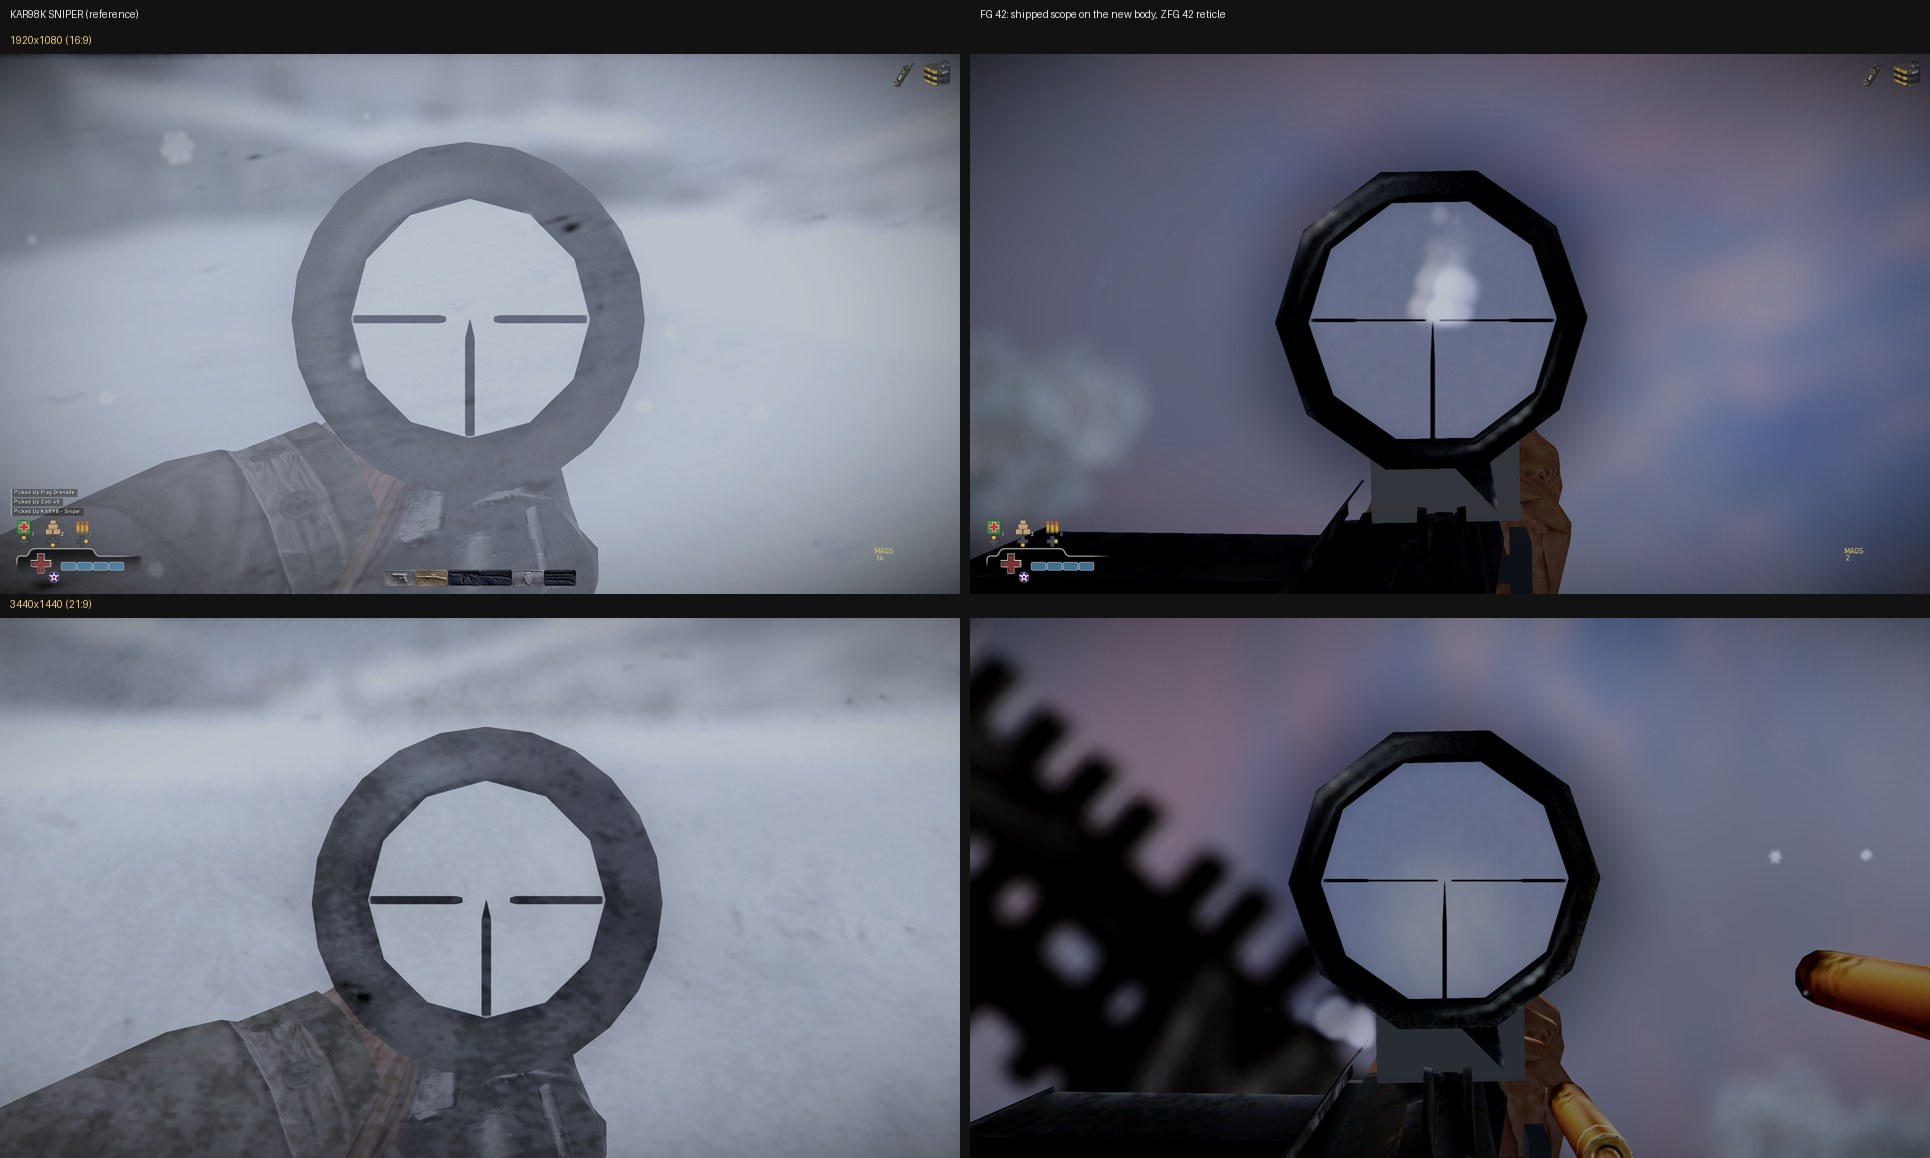
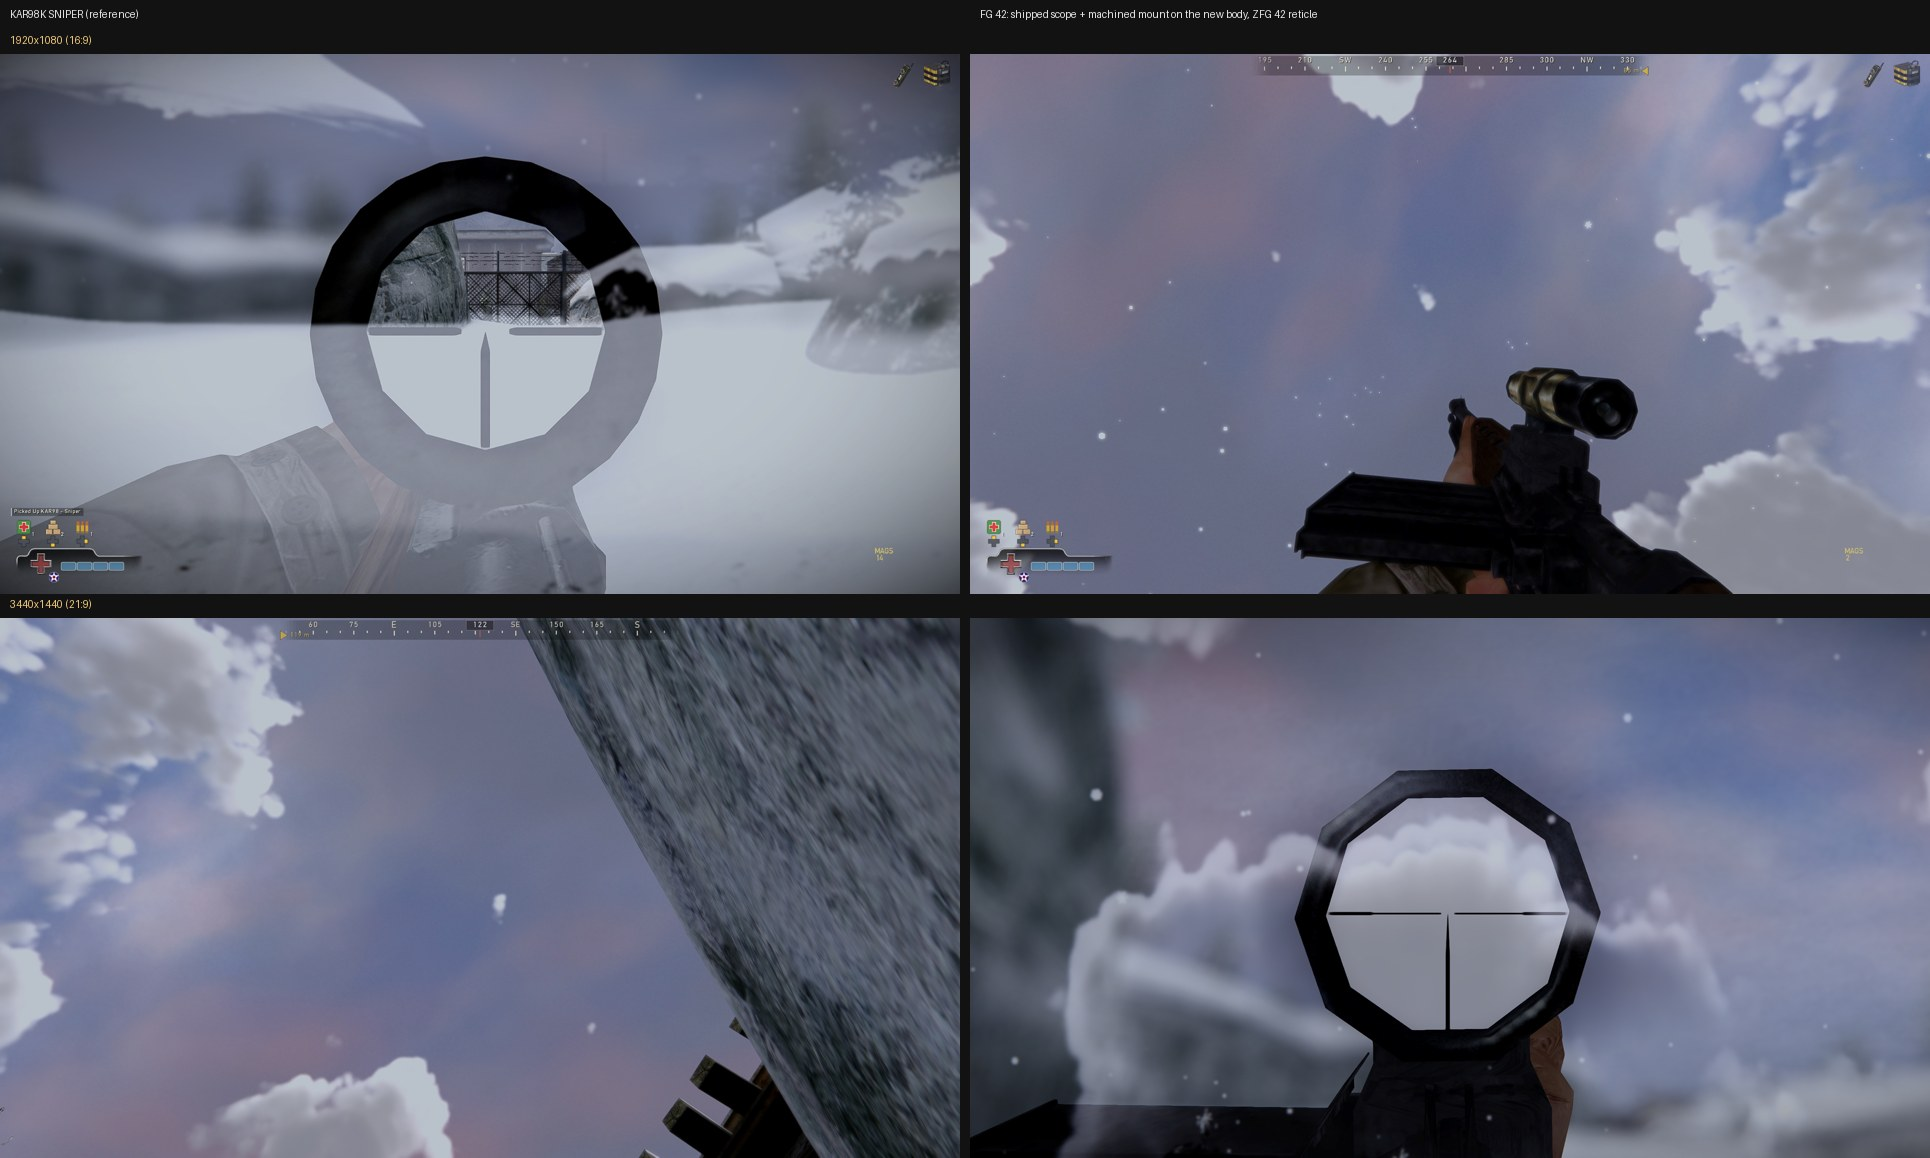
fg42hd QA #4: a machined steel mount seated on the receiver (no daylight), the stray fin removed
- build_mesh.py: mount_corners - a chamfered riser 0.45 into the shipped mount, a chamfered SADDLE base whose sides run into the receiver's
  rounded flanks (flat base showed snow underneath), two clamp screws, blued steel from the body sheet (fg42hdmt -> fg42hd* shader/finishes)
- old_scope drops the half-quad of the old mount's rear ramp that reached back to the old receiver (the fin)
- mount_views.py: offline side / below renders on a bright ground; qa2_batch.py QA_BOOT / QA_SKIP_K

diff --git a/docs/proposals/fg42hd_2026-11-08/tools/build_mesh.py b/docs/proposals/fg42hd_2026-11-08/tools/build_mesh.py
@@ -60,6 +60,83 @@ FS_X, FS_Z = (48.5, 53.5), -1.7           # the front sight's post + hood on the
 SCOPE_Z, SCOPE_X = -4.4, (-8.6, 8.6)      # the shipped scope + its mount in coop_fg42.skd's fg42base: everything above the old receiver
 
 
+MOUNT_FOOT = None
+SADDLE_Z = -1.30                          # the mount base's underside: below the receiver's flanks at |y| <= 1.15 (measured)
+PX = 30.0 / 2048.0                        # the body's texel density in sheet units per raw unit
+
+
+def _steel_uv(atlas, a, b):
+    """planar steel UV in the atlas's Barrel tile (the body sheet's blued steel, machining along a)"""
+    t = atlas['tiles']['Barrel']
+    u0 = (t['x'] + t['pad'] + 20) / atlas['size']
+    v0 = (t['y'] + t['pad'] + 20) / atlas['size']
+    return (u0 + (a % 14.0) * PX, v0 + (b % 14.0) * PX)
+
+
+def _prism(atlas, x0, x1, y0, y1, z0, z1, ch):
+    """a block along x whose four long edges are chamfered by ch (an octagonal section) with flat end caps; -z up"""
+    sec = [(y0 + ch, z0), (y1 - ch, z0), (y1, z0 + ch), (y1, z1 - ch), (y1 - ch, z1), (y0 + ch, z1), (y0, z1 - ch), (y0, z0 + ch)]
+    cy, cz = (y0 + y1) / 2, (z0 + z1) / 2
+    out = []
+    per = 0.0
+    for k in range(8):
+        (ya, za), (yb, zb) = sec[k], sec[(k + 1) % 8]
+        n = np.array([0.0, (zb - za), -(yb - ya)]); n /= np.linalg.norm(n)
+        if np.dot(n, [0, (ya + yb) / 2 - cy, (za + zb) / 2 - cz]) < 0:
+            n = -n
+        seg = float(np.hypot(yb - ya, zb - za))
+        q = [np.array([x0, ya, za]), np.array([x1, ya, za]), np.array([x1, yb, zb]), np.array([x0, yb, zb])]
+        uv = [_steel_uv(atlas, x0, per), _steel_uv(atlas, x1, per), _steel_uv(atlas, x1, per + seg), _steel_uv(atlas, x0, per + seg)]
+        per += seg
+        for a, b, c in ((0, 1, 2), (0, 2, 3)):
+            out.append([(1, q[a], n, uv[a]), (1, q[b], n, uv[b]), (1, q[c], n, uv[c])])
+    for x, sx in ((x0, -1.0), (x1, 1.0)):
+        n = np.array([sx, 0.0, 0.0])
+        c = np.array([x, cy, cz])
+        for k in range(8):
+            (ya, za), (yb, zb) = sec[k], sec[(k + 1) % 8]
+            pts = [c, np.array([x, ya, za]), np.array([x, yb, zb])]
+            out.append([(1, p_, n, _steel_uv(atlas, p_[1], p_[2])) for p_ in pts])
+    return out
+
+
+def _screw(atlas, x, y, z, r, h, seg=10):
+    """a cheese-head clamp screw on the mount's LEFT face (-y), axis along y"""
+    out = []
+    c0, c1 = np.array([x, y, z]), np.array([x, y - h, z])
+    for k in range(seg):
+        t0, t1 = 2 * np.pi * k / seg, 2 * np.pi * (k + 1) / seg
+        d0 = np.array([np.cos(t0), 0, np.sin(t0)]); d1 = np.array([np.cos(t1), 0, np.sin(t1)])
+        q = [c0 + r * d0, c1 + r * d0, c1 + r * d1, c0 + r * d1]
+        for a, b, c in ((0, 1, 2), (0, 2, 3)):
+            out.append([(1, q[i], (d0 if i in (0, 1) else d1), _steel_uv(atlas, q[i][0], q[i][2])) for i in (a, b, c)])
+        nn = np.array([0, -1.0, 0])
+        out.append([(1, p_, nn, _steel_uv(atlas, p_[0], p_[2])) for p_ in (c1, c1 + r * d0, c1 + r * d1)])
+    return out
+
+
+def mount_corners(atlas):
+    """[QA #4] the shipped scope's new foot: a machined steel rail mount on the body sheet's blued steel - a chamfered riser from the
+    shipped mount's foot down to the receiver, on a wider chamfered base rail, clamped by two screws on its left face. Replaces the
+    plain box (QA #3), which took a pale texel of the scope's sheet and read as a grey block under the eyepiece."""
+    x0, x1, y0, y1, fz = MOUNT_FOOT
+    out = _prism(atlas, x0 - 0.15, x1 + 0.15, y0 - 0.08, y1 + 0.08, fz - 0.45, RECEIVER_TOP - 0.50, 0.22)   # 0.45 into the shipped mount: its lit bottom edge showed as a seam (run q4)
+    # the base is a SADDLE: the receiver's top is a narrow ridge (-2.35 over |y| < 0.35) falling to -1.7 at |y| 0.7 and -1.2 at 1.4,
+    # so a flat-bottomed base showed daylight (snow) under its sides from below (user, QA #4). Its sides run down to SADDLE_Z, into the
+    # receiver's flanks, so it sits flush and solid from every angle.
+    out += _prism(atlas, x0 - 1.30, x1 + 1.30, y0 - 0.30, y1 + 0.30, RECEIVER_TOP - 0.55, SADDLE_Z, 0.16)
+    for sx in (x0 + 0.9, x1 - 0.9):
+        out += _screw(atlas, sx, y0 - 0.08, (fz - 0.45 + RECEIVER_TOP - 0.50) / 2, 0.30, 0.14)
+    # file winding, as corners() does: a triangle whose cross product agrees with its normal is flipped (retail: cross . n < 0)
+    fixed = []
+    for c in out:
+        p = [np.asarray(v[1], float) for v in c]
+        if np.dot(np.cross(p[1] - p[0], p[2] - p[0]), np.asarray(c[0][2]) + c[1][2] + c[2][2]) > 0:
+            c = [c[0], c[2], c[1]]
+        fixed.append(c)
+    return fixed
+
+
 def old_scope():
     """the shipped scope out of coop_fg42.skd's `fg42base` (triangles above its receiver, between the scope's ends), verbatim, plus
     a mount block from the shipped mount's foot down onto the new, lower receiver, textured from the mount's own texel"""
@@ -69,6 +146,9 @@ def old_scope():
     T = np.asarray(s['tris'], int)
     C = P[T].mean(1)
     sel = (C[:, 2] < SCOPE_Z) & (C[:, 0] > SCOPE_X[0]) & (C[:, 0] < SCOPE_X[1])
+    # [QA #4] minus the one half of the old mount's rear ramp whose partner sat below the cut: it reached back to the old receiver
+    # (x -4.93, z -3.9) and stood out as a thin pointed fin beside the new mount
+    sel &= P[T][:, :, 2].max(1) < -4.0
     T = T[sel]
     used = sorted(set(T.ravel()))
     remap = {o: i for i, o in enumerate(used)}
@@ -80,29 +160,8 @@ def old_scope():
     fz = foot[:, 2].max()                                    # -z is up: the mount's lowest point
     x0, x1 = foot[:, 0].min(), foot[:, 0].max()
     y0, y1 = foot[:, 1].min(), foot[:, 1].max()
-    # a dark steel texel of the scope's own sheet: the mount's foot vertex sampled a light-grey texel and the block read as a pale box (QA #3)
-    from PIL import Image
-    import io as _io
-    sheet = np.asarray(Image.open(_io.BytesIO(W.carriers('textures/fg42/fg42.jpg')[-1][1])).convert('L'), float)
-    lum = [sheet[min(int(v[1] % 1 * sheet.shape[0]), sheet.shape[0] - 1), min(int(v[0] % 1 * sheet.shape[1]), sheet.shape[1] - 1)]
-           for v in (s['verts'][o]['uv'] for o in used)]
-    order = np.argsort(lum)
-    pick = order[int(0.25 * len(order))]                     # the darker quarter, not the darkest (that is a black seam)
-    uv = s['verts'][used[pick]]['uv']
-    bone = s['verts'][used[0]]['bone']
-    lo, hi = np.array([x0, y0, fz - 0.15]), np.array([x1, y1, RECEIVER_TOP])
-    Pq = lambda i, j, k: [(lo, hi)[i][0], (lo, hi)[j][1], (lo, hi)[k][2]]
-    faces = [((1, 0, 0), [(1, 0, 0), (1, 1, 0), (1, 1, 1), (1, 0, 1)]), ((-1, 0, 0), [(0, 0, 0), (0, 0, 1), (0, 1, 1), (0, 1, 0)]),
-             ((0, 1, 0), [(0, 1, 0), (0, 1, 1), (1, 1, 1), (1, 1, 0)]), ((0, -1, 0), [(0, 0, 0), (1, 0, 0), (1, 0, 1), (0, 0, 1)])]
-    for n, idx in faces:
-        q = [np.array(Pq(*t)) for t in idx]
-        base = len(verts)
-        for p in q:
-            verts.append((list(map(float, n)), uv, bone, [list(map(float, p))] if isinstance(s['verts'][0]['pos'][0], (list, tuple)) else list(map(float, p))))
-        for a, bb, c in ((0, 1, 2), (0, 2, 3)):
-            fn = np.cross(q[bb] - q[a], q[c] - q[a])
-            tri = [base + a, base + bb, base + c] if np.dot(fn, n) < 0 else [base + a, base + c, base + bb]   # retail winding
-            tris.append(tri)
+    global MOUNT_FOOT
+    MOUNT_FOOT = (x0, x1, y0, y1, fz)                       # the machined mount (mount_corners) is built from here down
     print('  shipped scope: %d tris, mount foot z %.2f -> receiver %.2f' % (len(tris), fz, RECEIVER_TOP))
     return ('fg42scope', np.asarray(tris, int), verts)
 
@@ -141,6 +200,7 @@ def main():
         # The in-house ZFG 42 (scope_mesh.py, removed) read as an oversized can, blocky and mounted too high. Only a mount block is new:
         # the shipped mount stopped at the old receiver, the new one is lower.
         surfs.append(old_scope())
+        surfs += X.split_surfaces('fg42hdmt', mount_corners(atlas))   # fg42hd* -> the body's shader and finishes
         surfs.append(old_surface('models/weapons/fg42/coop_fg42.skd', 'fg42lens'))
     surfs.append(old_handle())
     os.makedirs(OUT, exist_ok=True)

diff --git a/docs/proposals/fg42hd_2026-11-08/tools/mount_views.py b/docs/proposals/fg42hd_2026-11-08/tools/mount_views.py
@@ -1,0 +1,58 @@
+"""offline check of the scoped FG 42's scope mount (QA #4: "you're seeing snow" - daylight between mount and receiver): flat-shaded
+painter's renders of coop_fg42hd.skd around the scope from the side, from below-left, from behind-below and from the front, on a
+bright background so any gap shows as light. -> build/mount_views.png
+    python mount_views.py
+"""
+import math, os, sys
+import numpy as np
+from PIL import Image, ImageDraw
+sys.path.insert(0, r"C:\mohaa-coop-dev\docs\tools\weapon_hd")
+import skd as K
+
+HERE = os.path.dirname(os.path.abspath(__file__))
+d = K.read(open(os.path.join(HERE, '..', 'ship', 'models', 'weapons', 'fg42', 'coop_fg42hd.skd'), 'rb').read())
+TRIS = []
+for s in d['surfaces']:
+    P = np.array([v['pos'] for v in s['verts']], float)
+    for t in s['tris']:
+        q = P[list(t)]
+        if q[:, 0].max() > -12 and q[:, 0].min() < 12 and q[:, 2].min() < 1.0:
+            TRIS.append((s['name'], q))
+COL = {'fg42scope': (70, 74, 82), 'fg42lens': (40, 60, 90), 'coop_handle': (90, 90, 90)}
+
+
+def view(yaw, pitch, size=420, scale=22.0):
+    cy, sy, cp, sp = math.cos(yaw), math.sin(yaw), math.cos(pitch), math.sin(pitch)
+    R = np.array([[cy, sy, 0], [-sy, cy, 0], [0, 0, 1]]) @ np.eye(3)
+    R = np.array([[1, 0, 0], [0, cp, -sp], [0, sp, cp]]) @ R
+    img = Image.new('RGB', (size, size), (235, 238, 242))
+    dr = ImageDraw.Draw(img)
+    c = np.array([0.5, 0.0, -4.0])
+    L = np.array([0.3, -0.5, -0.8]); L /= np.linalg.norm(L)
+    items = []
+    for name, q in TRIS:
+        v = (q - c) @ R.T
+        n = np.cross(q[1] - q[0], q[2] - q[0]); ln = np.linalg.norm(n)
+        if ln < 1e-9:
+            continue
+        n = -n / ln                                                # retail winding: cross . n < 0
+        if (n @ R.T)[1] > 0.02:                                      # back face (camera looks along +y in view space)
+            continue
+        shade = 0.35 + 0.65 * max(0.0, float(-(n @ L)))
+        base = COL.get(name, (110, 85, 62) if name.startswith('fg42hd') and not name.startswith('fg42hdmt') else (60, 64, 72))
+        items.append((v[:, 1].mean(), [(size / 2 + p[0] * scale, size / 2 + p[2] * scale) for p in v],
+                      tuple(int(ch * shade) for ch in base)))
+    for _dep, pts, col in sorted(items, key=lambda it: -it[0]):
+        dr.polygon(pts, fill=col)
+    return img
+
+
+views = [('side (right)', math.radians(0), math.radians(0)), ('below-left', math.radians(-35), math.radians(-30)),
+         ('behind-below', math.radians(-80), math.radians(-25)), ('front-below', math.radians(80), math.radians(-25))]
+out = Image.new('RGB', (420 * 4, 440), (20, 20, 20))
+dr = ImageDraw.Draw(out)
+for i, (lab, yw, pt) in enumerate(views):
+    out.paste(view(yw, pt), (i * 420, 20))
+    dr.text((i * 420 + 6, 4), lab, fill=(230, 230, 230))
+out.save(os.path.join(HERE, '..', 'build', 'mount_views.png'))
+print('ok')

diff --git a/docs/proposals/fg42hd_2026-11-08/tools/qa2_batch.py b/docs/proposals/fg42hd_2026-11-08/tools/qa2_batch.py
@@ -8,6 +8,7 @@ import os, subprocess, sys, time
 HERE = os.path.dirname(os.path.abspath(__file__))
 WV = r"C:\mohaa-coop-dev\docs\proposals\wpnviewer_2026-11-04\tools"
 pre = sys.argv[1] if len(sys.argv) > 1 else "q2"
+MOD = os.path.join("H:" + os.sep, "hzm_work", "fg42hd-mod")
 
 
 def busy():
@@ -32,11 +33,14 @@ def run(args, env_extra):
             print(l[:170], flush=True)
 
 
-base = dict(WV_BOOT="60000", WV_SPAWN="models/weapons/fg42.tik")
+wait_free()
+subprocess.run([sys.executable, os.path.join(WV, "wpnview_run.py"), "setup_fix"], env=dict(os.environ, WV_MOD=MOD))
+base = dict(WV_BOOT=os.environ.get("QA_BOOT", "60000"), WV_SPAWN="models/weapons/fg42.tik")
 run([os.path.join(HERE, "run_fg42.py"), "39", "FG 42", pre + "fg1080"], dict(base, WV_RES="1080", WV_RAISE="1", WV_RAISE_TURN_MS="900"))
 run([os.path.join(HERE, "run_fg42.py"), "39", "FG 42", pre + "fguw"], dict(base, WV_RES="uw"))
-run([os.path.join(HERE, "run_fg42.py"), "13", "KAR98 - Sniper", pre + "k1080"], dict(base, WV_RES="1080"))
-run([os.path.join(HERE, "run_fg42.py"), "13", "KAR98 - Sniper", pre + "kuw"], dict(base, WV_RES="uw"))
+if os.environ.get("QA_SKIP_K") != "1":          # the Kar98k reference pair (unchanged by FG 42 work: reuse the last batch's)
+    run([os.path.join(HERE, "run_fg42.py"), "13", "KAR98 - Sniper", pre + "k1080"], dict(base, WV_RES="1080"))
+    run([os.path.join(HERE, "run_fg42.py"), "13", "KAR98 - Sniper", pre + "kuw"], dict(base, WV_RES="uw"))
 run([os.path.join(WV, "wpnview_run.py"), "shots", "1080", pre + "_views", "exec ui/wpnview/e374.cfg",
      "pushmenu coop_loadout|set coop_loP3 1;set coop_loP2 0|exec ui/loadout/eq39.cfg"], {"WV_MOD": r"H:\hzm_work\fg42hd-mod"})
 print("batch done", flush=True)

diff --git a/docs/proposals/fg42hd_2026-11-08/README.md b/docs/proposals/fg42hd_2026-11-08/README.md
@@ -79,8 +79,12 @@ QA #2 (an in-house ZFG 42 with the eyepiece sized to the lens view) still failed
 was an oversized, blocky can mounted high. Per the coordinator, the recipe that already worked is copied instead:
 - `build_mesh.py` (`FG_SCOPE=1`) lifts the **shipped scope** out of `coop_fg42.skd`'s `fg42base` (everything above the old receiver,
   151 tris) and its `fg42lens` VERBATIM - same bone, same local coordinates, so it sits exactly on the shipped scope sight row and the
-  lens view behaves as it did through v1.10.65. A mount block runs from the shipped mount's foot (z -4.25) down to the new receiver.
-  The surface is `fg42scope` on the shipped `fg42` sheet; its finishes reuse the shipped `coop_skin_fg42_*` blocks.
+  lens view behaves as it did through v1.10.65. The surface is `fg42scope` on the shipped `fg42` sheet; its finishes reuse the shipped
+  `coop_skin_fg42_*` blocks. One half-quad of the old mount's rear ramp is dropped (it reached back to the old receiver: a thin fin).
+- **QA #4 mount**: a machined steel rail mount on the BODY sheet (`fg42hdmt`, `mount_corners`): a chamfered riser from the shipped
+  mount's foot, on a wider chamfered SADDLE base whose sides run down into the receiver's rounded flanks (the receiver top is a
+  narrow ridge, -2.35, falling to -1.2 at |y| 1.4 - a flat base showed snow underneath, "the scope isn't attached"), two clamp screws
+  on its left face. `mount_views.py` renders it from the side and from below on a bright ground to prove there is no daylight.
 - The source's **front sight post and hood** are removed on the scoped gun (the real scoped FG 42's folded flat); the hood read as the
   irons' ring leaking onto the front post.
 - Kept from QA #2: the fine **`zfg42` reticle** (cgame optic + `gen_scope_reticles.py`; the base scopes pak must be rebuilt at merge),
